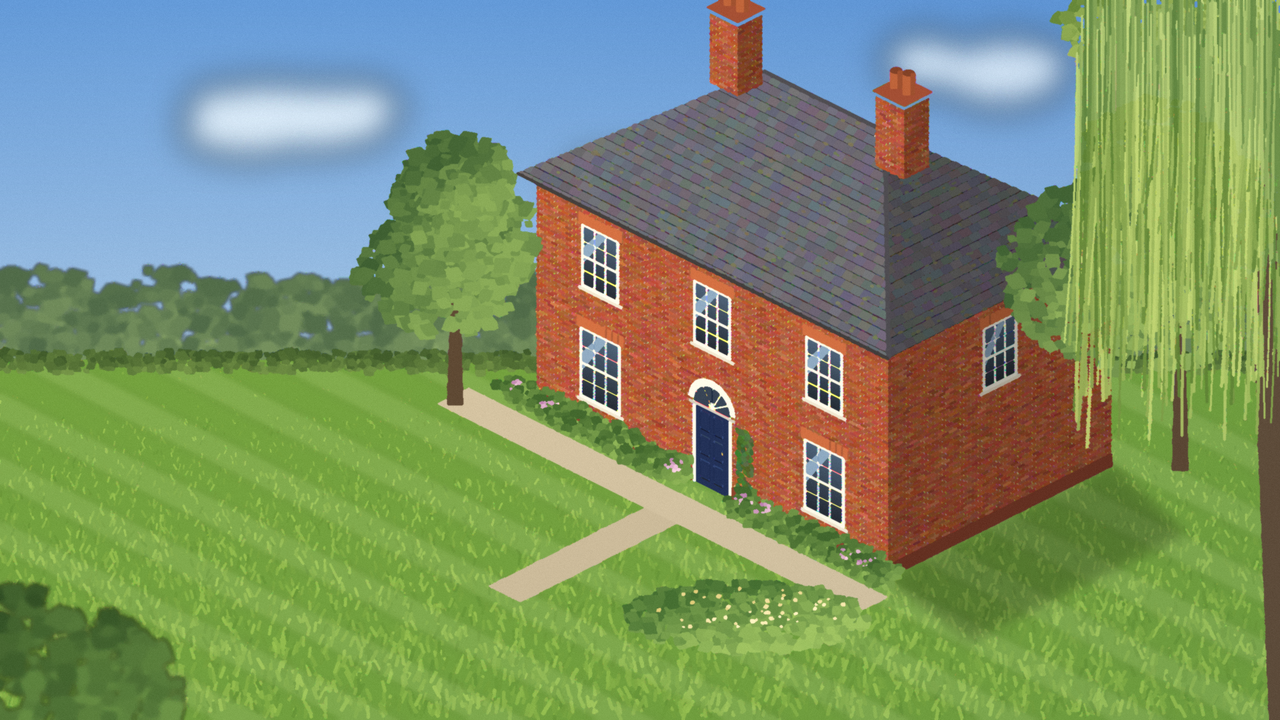
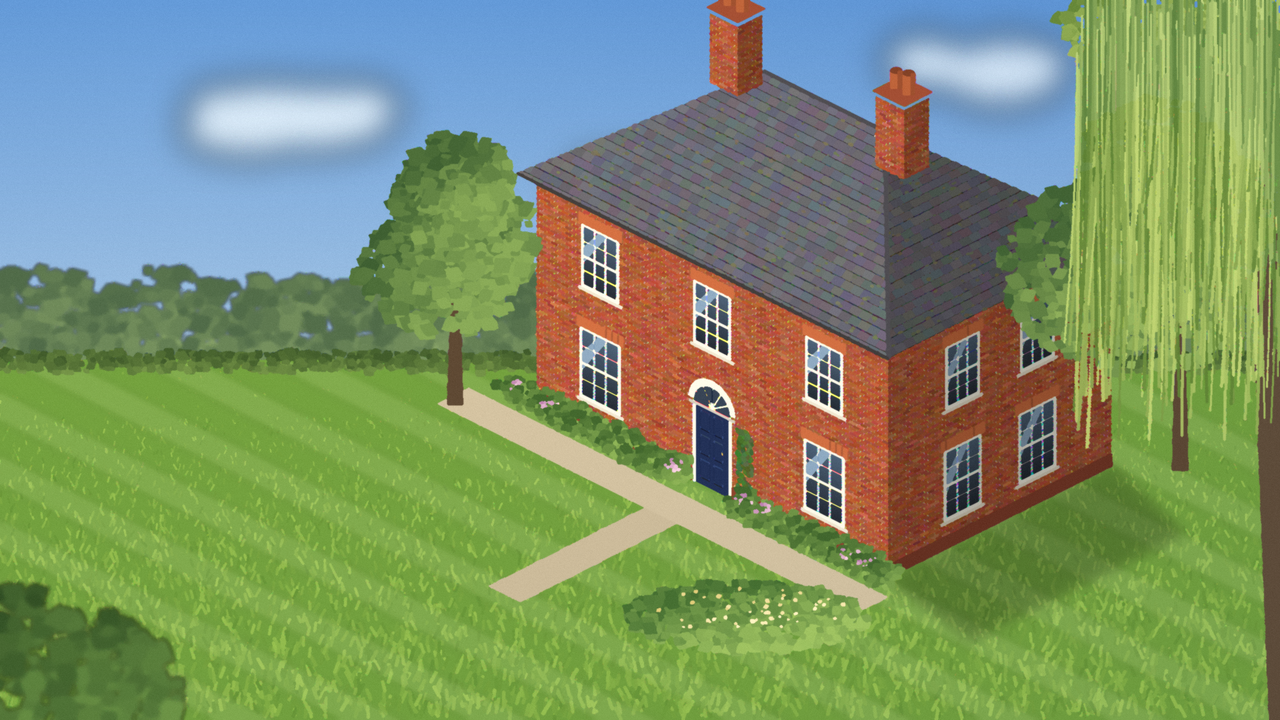
Title screen: four windows in the house's side wall
Two upstairs over two downstairs, evenly spaced, the front's six-over-six
sashes in the side wall's shade (was a single upstairs window). Front
unchanged.

Changed region(s): [[0.7188, 0.4278, 0.8438, 0.7333]]

diff --git a/tools/make_title.py b/tools/make_title.py
@@ -176,7 +176,11 @@ def side():
     th = img.size[1]
     d.rectangle([0, zy(th, 0.35), img.size[0], th], fill=(92, 44, 34))
     d.rectangle([0, 0, img.size[0], 0.16 * PPM], fill=(170, 166, 158))
-    window(d, th, 3.5, 3.75, 5.45, w=1.05, light=0.7)
+    # four windows, as the house: two upstairs over two downstairs, evenly
+    # spaced along the side, the front's sashes in the side wall's shade
+    for uc in (HD / 3, HD * 2 / 3):
+        window(d, th, uc, 3.75, 5.45, w=1.05, light=0.7)
+        window(d, th, uc, 0.75, 2.65, w=1.15, light=0.7)
     return img
 
 
